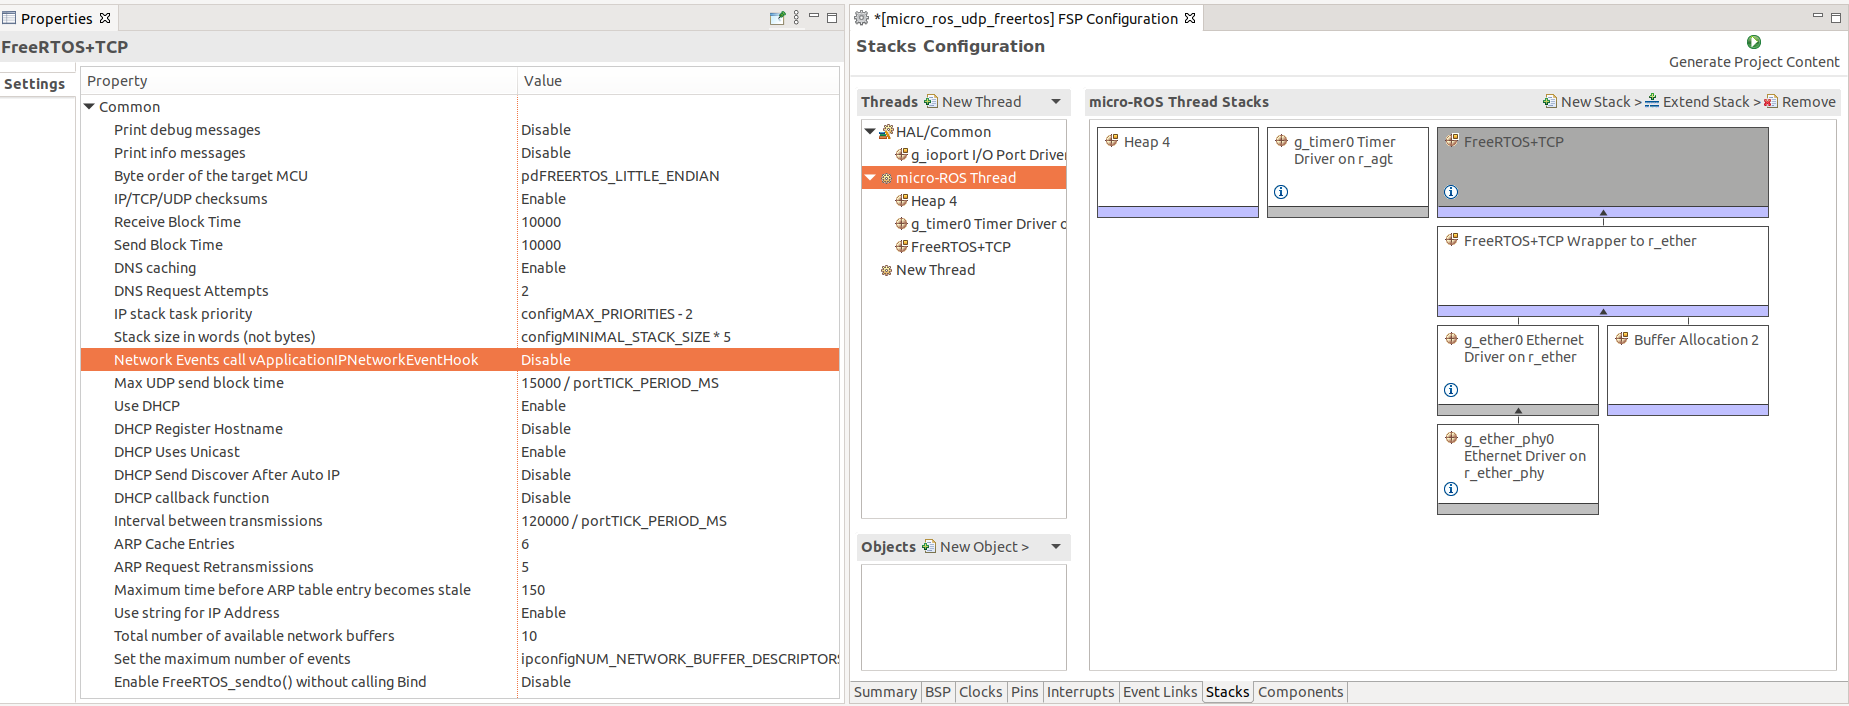
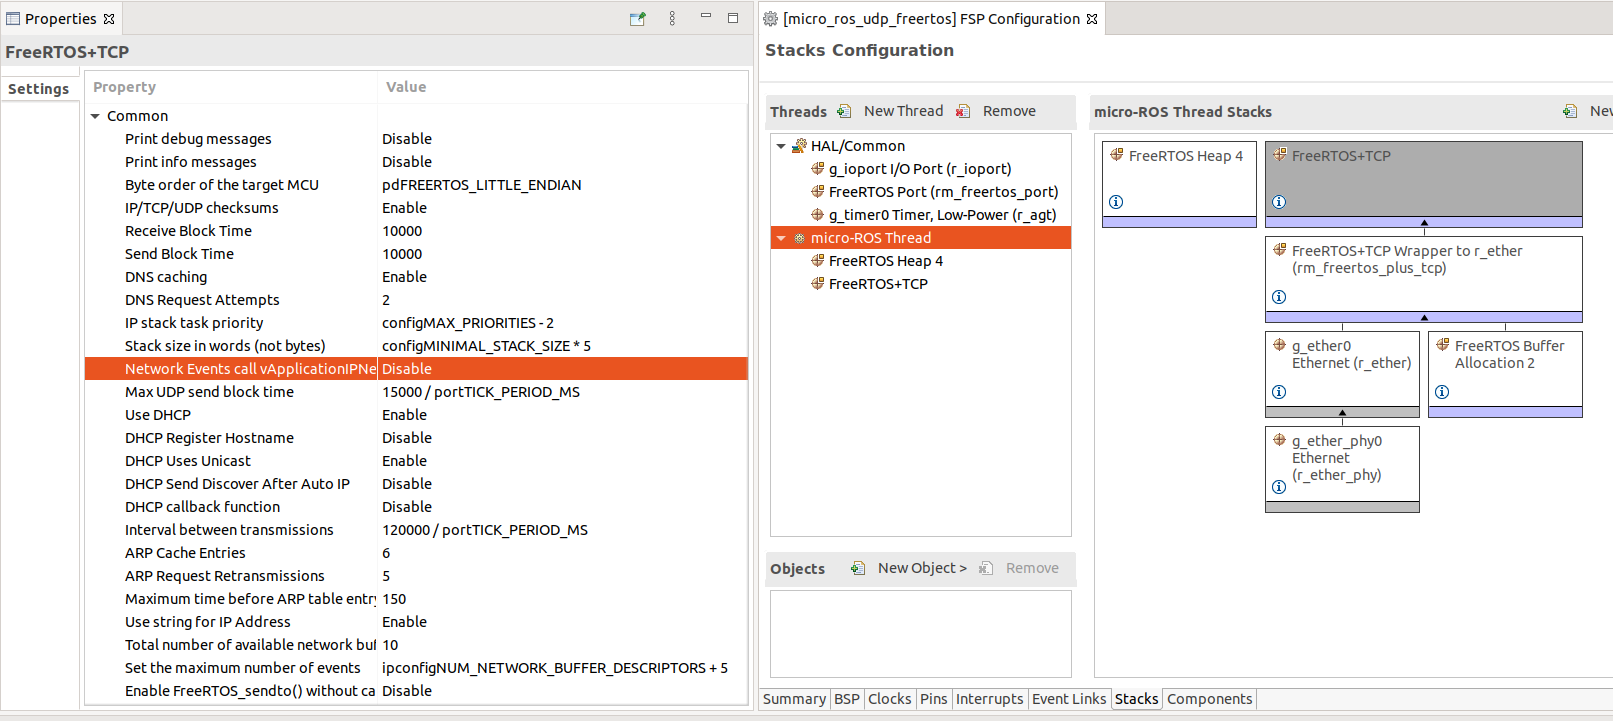
Upgrade documentation to FSP 3.5.0 (#26)
* Update README

* Update transports readme

* Update images with new names/modules

* Update FSP install guide

* Update

(cherry picked from commit 55e158a86ad2be8fc6de987cee04ad3e6c71fcd0)

Changed region(s): [[0.0, 0.0, 1.0, 0.9972], [0.372, 0.0, 1.0, 0.0935], [0.217, 0.0935, 0.31, 0.1246]]

diff --git a/micro_ros_transports.md b/micro_ros_transports.md
@@ -48,8 +48,9 @@ Depending on which transport is used for micro-ROS specific configurations, the 
       - `extra_sources/microros_transports/udp_transport_freeRTOS.c`
 
 2. Double click on the `configuration.xml` file of your project and go to the `Stacks` tab.
-3. Select `New Stack -> FreeRTOS -> Libraries -> FreeRTOS + TCP`.
-4. Configure the properties of the `FreeRTOS + TCP component`:
+3. Select `New Stack -> Networking -> FreeRTOS + TCP`.
+4. Select `New Stack -> RTOS -> FreeRTOS Heap 4`.
+5. Configure the properties of the `FreeRTOS + TCP component`:
    1. `Common -> vApplicationIPNetworkEventHook` to `Disable`.
    2. `Common -> DHCP Register Hostname` to `Disable`.
    3. *Optional: Enable DHCP `Common -> Use DHCP` to `Enable`*.
@@ -60,12 +61,12 @@ Depending on which transport is used for micro-ROS specific configurations, the 
 
    ![image](.images/FreeRTOSTCP_conf.png)
 
-5. Increase number of Ethernet Tx buffers on `g_ether0 component -> Module g_ether0 Ethernet Driver on r_ether -> Buffers -> Number of RX buffer` to 4:
+6. Increase number of Ethernet Tx buffers on `g_ether0 component -> Module g_ether0 Ethernet Driver on r_ether -> Buffers -> Number of RX buffer` to 4:
 
    ![image](.images/FreeRTOSTCP_eth_conf.png)
 
-6.  Save the modifications by clicking on `Generate Project Content`.
-7.  Configure micro-ROS agent IP and port passing a freeRTOS `freertos_sockaddr` struct to the `rmw_uros_set_custom_transport` function:
+7.  Save the modifications by clicking on `Generate Project Content`.
+8.  Configure micro-ROS agent IP and port passing a freeRTOS `freertos_sockaddr` struct to the `rmw_uros_set_custom_transport` function:
 
       ```
       struct freertos_sockaddr remote_addr;
@@ -87,14 +88,15 @@ Depending on which transport is used for micro-ROS specific configurations, the 
 1. Copy the following files to the source directory:
       - `extra_sources/microros_transports/udp_transport_threadX.c`
 2. Double click on the `configuration.xml` file of your project and go to the `Stacks` tab.
-3. Select `New Stack -> Azure RTOS -> NetX Duo -> Protocols -> NetX Duo DHCP IPv4 Client`.
-4. Click on Add NetX Duo Packet Pool and select `Use g_packet_pool0 NetX Duo Packet Pool Instance`:
+3. Select `New Stack -> Networking -> Azure RTOS NetX Duo DHCP IPv4 Client`.
+4. Click on Add NetX Duo Network Driver and select `New -> NetX Duo Ethernet Driver (rm_netxduo_ether)`:
+5. Click on Add NetX Duo Packet Pool and select `Use -> g_packet_pool0 Azure RTOS NetX Duo Packet Pool Instance`:
 
    ![image](.images/ThreadX_DHCP_conf.png)
 
-5. *Optional: Increase number of buffers avaliable to the IP stack on `g_packet_pool0` properties on `Module g_packet_pool0 NetX Duo Packet Pool Instance -> Number of Packets in Pool`*.
-6.  Save the modifications by clicking on `Generate Project Content`.
-7.  Configure micro-ROS agent IP and port passing a `custom_transport_args` struct to the `rmw_uros_set_custom_transport` function:
+6. *Optional: Increase number of buffers avaliable to the IP stack on `g_packet_pool0` properties on `Module g_packet_pool0 Azure RTOS NetX Duo Packet Pool Instance -> Number of Packets in Pool`*.
+7.  Save the modifications by clicking on `Generate Project Content`.
+8.  Configure micro-ROS agent IP and port passing a `custom_transport_args` struct to the `rmw_uros_set_custom_transport` function:
 
       ```
       custom_transport_args remote_addr = {

diff --git a/fps_install_packs.md b/fps_install_packs.md
@@ -9,28 +9,33 @@
 
 # FSP Board pack installation on Renesas e<sup>2</sup> studio
 
-## Download
-https://github.com/renesas/fsp/releases/download/
-- Download the latest FSP packs as zip file from the  [Renesas Github repository](https://github.com/renesas/fsp/releases). For example, version 3.2.1 can be downloaded here: [FSP_Packs_v3.2.1.zip](https://github.com/renesas/fsp/releases/tag/v3.2.1)
+## Renesas e2 studio installer
 
-## Install Renesas FSP packs
+- Download the e2 studio Linux AppImage from the  [Renesas Github repository](https://github.com/renesas/fsp/releases). For example, e2 studio installer for FSP version 3.5.0 can be downloaded here: [setup_fsp_v3_5_0_e2s_v2021-10.AppImage](https://github.com/renesas/fsp/releases/download/v3.5.0/setup_fsp_v3_5_0_e2s_v2021-10.AppImage)
+- Perform a Quick Install, this will automatically include the latest FSP and GNU Arm Embedded Toolchain versions.
+
+## Manual FSP Update
+
+- Download the latest FSP packs as zip file from the  [Renesas Github repository](https://github.com/renesas/fsp/releases). For example, version 3.5.0 can be downloaded here: [FSP_Packs_v3.5.0.zip](https://github.com/renesas/fsp/releases/download/v3.5.0/FSP_Packs_v3.5.0.zip)
+
+### Install Renesas FSP packs
 
 1. Open Renesas e<sup>2</sup> studio and go to `Help -> CMSIS Packs Management -> Renesas RA`.
 2. Here you will see the internal packs folder.
 
 ![image](.images/Packs_path.png)
 
-3. Extract the downloaded packs on the 'internal' folder path: `unzip FSP_Packs_v2.4.0.zip -d /home/username/.eclipse/com.renesas.platform_1177272026/internal`.
+1. Extract the downloaded packs on the FSP folder path: `unzip FSP_Packs_v2.4.0.zip -d /home/username/.eclipse/com.renesas.platform_1177272026/`.
 
-4. Now check on e<sup>2</sup> studio that the packs were detected and installed successfully:
+2. Now check on e<sup>2</sup> studio that the packs were detected and installed successfully:
 
 ![image](.images/FSP_installed.png)
 
 Note: Check the permissions on this folder, Renesas e<sup>2</sup> studio will need to write on this directory.
 
-## Install GNU Arm Embedded Toolchain
+### Install GNU Arm Embedded Toolchain
 
-1. Download and extract the latest version from [ARM Developer site](https://developer.arm.com/tools-and-software/open-source-software/developer-tools/gnu-toolchain/gnu-rm/downloads). micro-ROS demos are tested with this version: [gcc-arm-none-eabi-10-2020-q4-major-x86_64-linux.tar.bz2](https://developer.arm.com/-/media/Files/downloads/gnu-rm/10-2020q4/gcc-arm-none-eabi-10-2020-q4-major-x86_64-linux.tar.bz2?revision=ca0cbf9c-9de2-491c-ac48-898b5bbc0443&la=en&hash=68760A8AE66026BCF99F05AC017A6A50C6FD832A).
+1. Download and extract the latest version from [ARM Developer site](https://developer.arm.com/tools-and-software/open-source-software/developer-tools/gnu-toolchain/gnu-rm/downloads). micro-ROS demos are tested with this version: [gcc-arm-none-eabi-10.3-2021.10-x86_64-linux.tar.bz2 ](https://developer.arm.com/-/media/Files/downloads/gnu-rm/10.3-2021.10/gcc-arm-none-eabi-10.3-2021.10-x86_64-linux.tar.bz2).
 
 2. Open e<sup>2</sup> studio and go to `Help -> Add Renesas Toolchains -> Add...`.
 3. Click on Browse and select the compiler extracted folder, the compiler should be detected automatically:

diff --git a/README.md b/README.md
@@ -34,8 +34,8 @@ This package eases the integration of [micro-ROS](https://micro.ros.org/) in a [
 ## Requirements
 
 - [Renesas e<sup>2</sup> studio](https://www.renesas.com/us/en/software-tool/e-studio) for Linux<sup>1</sup>
-- FSP v3.2.1 board packs for Renesas e<sup>2</sup> studio: [Details](fps_install_packs.md).
-- GNU Arm Embedded Toolchain v9.3.1.20200408 (Other compatible toolchain may work).
+- FSP v3.5.0 board packs for Renesas e<sup>2</sup> studio: [Details](fps_install_packs.md).
+- GNU Arm Embedded Toolchain v10.3.1.20210824 (Other compatible toolchain may work).
 - [Install colcon](https://colcon.readthedocs.io/en/released/user/installation.html) and dependencies, for example with:
 
 ```bash
@@ -108,12 +108,12 @@ cd ../micro_ros_renesas2estudio_component/library_generation && ./library_genera
 
    Configure `g_timer0` as an `r_agt`
       1. Double click on the `configuration.xml` file of your project and go to the `Stacks` tab.
-      2. Select `New Stack -> Driver -> Timers -> Timer Driver on r_agt`.
-      3. Modify the clock period on the component properties (`Module g_timer0 Timer Driver on r_agt -> General -> Period`) to `100`
-      3. Modify the clock period unit on the component properties (`Module g_timer0 Timer Driver on r_agt -> General -> Period Unit`) to `Microseconds`
-      4. Modify the count source on the component properties (`Module g_timer0 Timer Driver on r_agt -> General -> Count Source`) to `PCLKB`
-      5. Modify the interrupt callback on the component properties (`Module g_timer0 Timer Driver on r_agt -> Interrupt -> Callback`) to `micro_ros_timer_cb`
-      6. Modify the underflow interrupt priority on the component properties (`Module g_timer0 Timer Driver on r_agt -> Interrupt -> Underflow Interrupt Priority`) to `Priority 12`
+      2. Select `New Stack -> Driver -> Timers -> Timer, Low-Power (r_agt)`.
+      3. Modify the clock period on the component properties (`Module g_timer0 Timer, Low-Power (r_agt) -> General -> Period`) to `100`
+      3. Modify the clock period unit on the component properties (`Module g_timer0 Timer, Low-Power (r_agt) -> General -> Period Unit`) to `Microseconds`
+      4. Modify the count source on the component properties (`Module g_timer0 Timer, Low-Power (r_agt) -> General -> Count Source`) to `PCLKB`
+      5. Modify the interrupt callback on the component properties (`Module g_timer0 Timer, Low-Power (r_agt) -> Interrupt -> Callback`) to `micro_ros_timer_cb`
+      6. Modify the underflow interrupt priority on the component properties (`Module g_timer0 Timer, Low-Power (r_agt) -> Interrupt -> Underflow Interrupt Priority`) to `Priority 12`
 
          ![image](.images/Timer_configuration.png)
 
